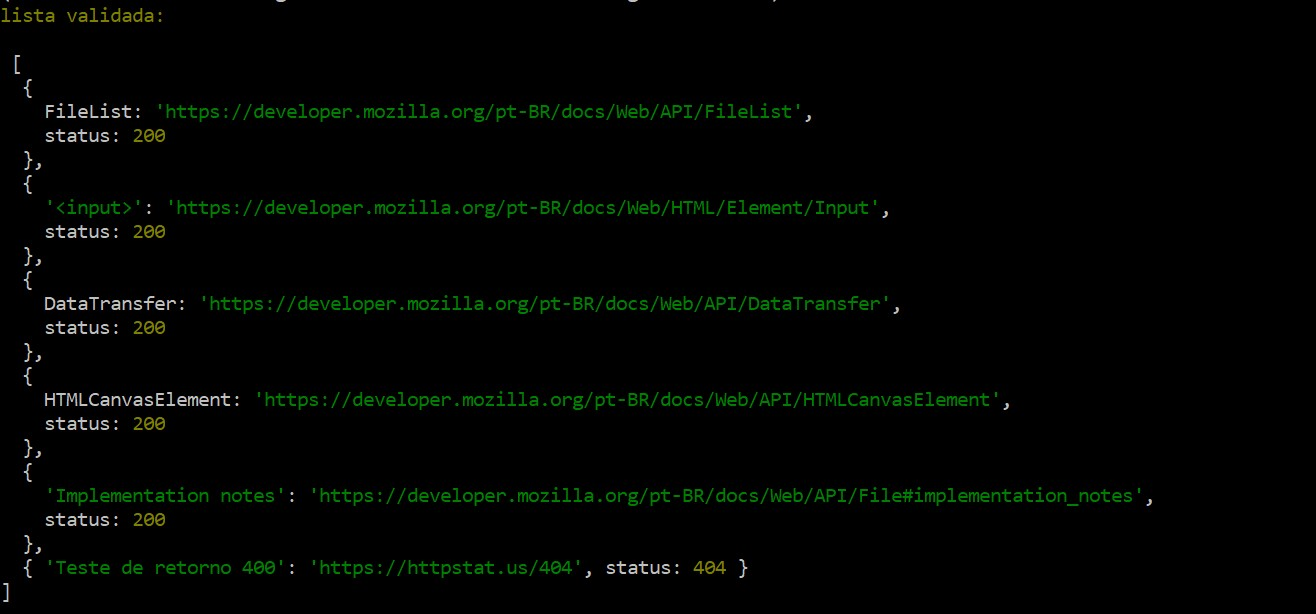
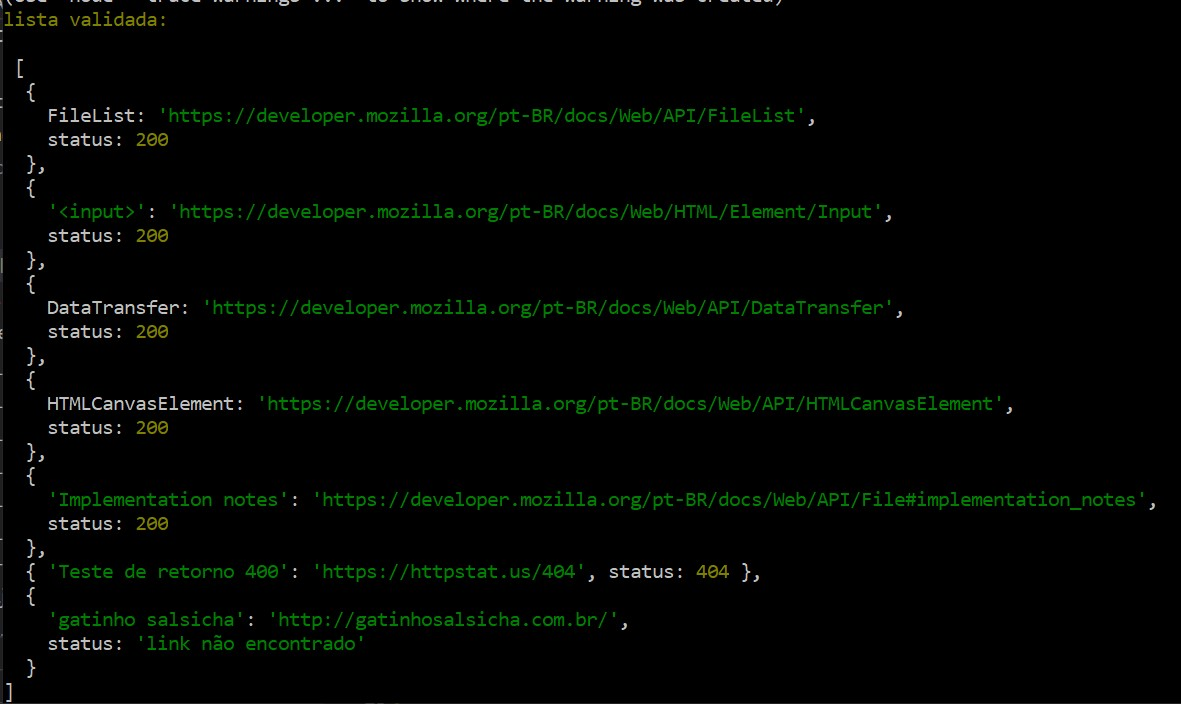
validando link que não existe

Changed region(s): [[0.0, 0.0, 1.0, 1.0], [0.5182, 0.0, 0.5487, 0.0309], [0.2134, 0.0, 0.2439, 0.0309]]

diff --git a/src/http-validacao.js b/src/http-validacao.js
@@ -1,3 +1,5 @@
+import chalk from "chalk";
+
 function extraiLinks (arrLinks) {
     return arrLinks.map((objetoLink) => Object.values(objetoLink).join());
 }
@@ -6,11 +8,23 @@ async function checaStatus (listaURLs) {
     const arrStatus = await Promise
     .all(
         listaURLs.map(async (url) => {
-            const response = await fetch(url);
-            return response.status;
+            try {
+                const response = await fetch(url);
+                return response.status;
+            } catch (erro) {
+                return manejaErros(erro);
+            }
         })
     )
     return arrStatus;
+}
+
+function manejaErros (erro) {
+    if (erro.cause.code === 'ENOTFOUND') {
+        return 'link não encontrado';
+    } else {
+        return 'Ocorreu algum erro';
+    }
 }
 
 export default async function listaValidada (listaDelinks) {
@@ -22,5 +36,3 @@ export default async function listaValidada (listaDelinks) {
         status: status[indice]
     }))
 }
-
-//[gatinho salsicha](http://gatinhosalsicha.com.br/)

diff --git a/arquivos/texto.md b/arquivos/texto.md
@@ -3,3 +3,4 @@ A interface File provê informações sobre arquivos e permite ao JavaScript  a 
 São geralmente recuperados a partir de um objeto [FileList](https://developer.mozilla.org/pt-BR/docs/Web/API/FileList) que é retornado como resultado da seleção, pelo usuário, de arquivos através do elemento [<input>](https://developer.mozilla.org/pt-BR/docs/Web/HTML/Element/Input), a partir do objeto [DataTransfer](https://developer.mozilla.org/pt-BR/docs/Web/API/DataTransfer) utilizado em operações de arrastar e soltar, ou a partir da API `mozGetAsFile()` em um [HTMLCanvasElement](https://developer.mozilla.org/pt-BR/docs/Web/API/HTMLCanvasElement). Em Gecko, códigos com privilégiios podem criar objetos File representando qualquer arquivo local sem a intereção do usuário (veja [Implementation notes](https://developer.mozilla.org/pt-BR/docs/Web/API/File#implementation_notes) para mais informações.).
 
 [Teste de retorno 400](https://httpstat.us/404).
+[gatinho salsicha](http://gatinhosalsicha.com.br/)
